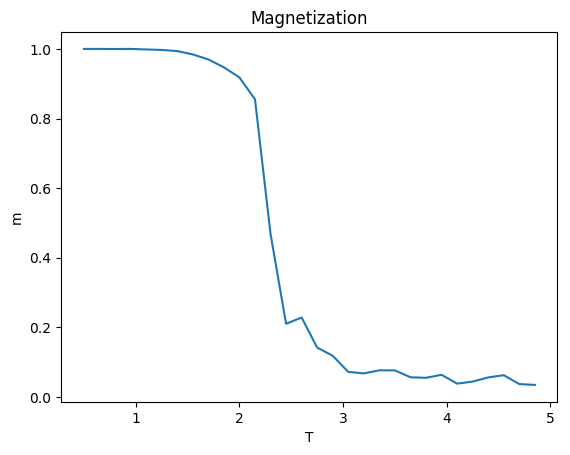
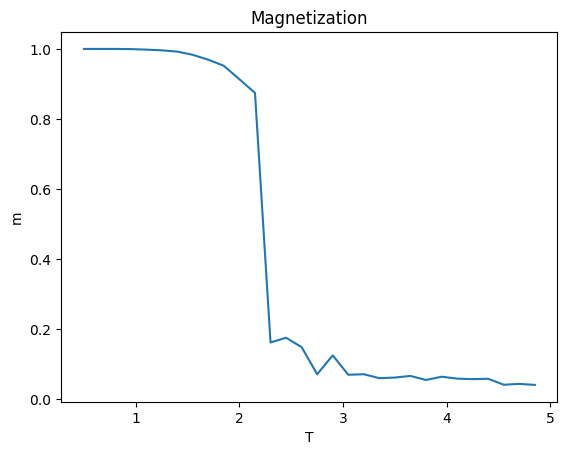
Added specific heat

diff --git a/Ising/Ising.py b/Ising/Ising.py
@@ -208,15 +208,18 @@ Ts = []
 for nt in range(Nt):
 	
 	
+	
+	#These will be averaged out over ntest times...
+	#With independent starting points
 	Eavg = 0
 	Mavg = 0
 	M2avg = 0
-	
-	#Denner her er speshul
 	E2avg = 0
 	
+	
+	
 	#Precalculated exponenstial, for every T, for more efficiency
-	#Der er noget i vejen emd disse, heldigvis, så er det til at fix ftw
+	#Right now i make 17, but there's only 5 i think! Because of 2* faktor, so only even numbers
 	PreCalcExp = [np.exp(-(i-8.0)/T) for i in range(17)]
 	
 	#Fordi noget med at bad initial conditions kan give local minim..
@@ -234,9 +237,24 @@ for nt in range(Nt):
 		#Lige her bør jeg faktisk lave en endnu en loop
 		
 		
-		
+		MEquilibriumCount = 0
 		#100*N = 100*625 = 62500
 		#E2calcavg = 0
+		
+		#Well i can't have division by 0 error, so...
+		Mlasteq = 1
+		
+		#I need to make an average of M*M for <M**2>
+		#And later, I need to make an average of THESE aswell, with 1/ntest faktor
+		#So it will be double average for <M**2>, and probably should do the same for <E**2>?
+		Avgcount = 0
+		
+		MavgMC = 0
+		M2avgMC = 0
+		EavgMC = 0
+		E2avgMC = 0
+		
+		
 		for n in range(150*N):
 			randi = np.random.randint(0,nx)
 			randj = np.random.randint(0,nx)
@@ -256,53 +274,111 @@ for nt in range(Nt):
 				if x <= P:
 					S[randj,randi] *= -1
 					
-			#if n >= 150*N-20:
-			#	Etotalavg = CalcH(S)
+			
+			#Here I count succesive equilibrium states,
+			#It needs to "remember" at least 2 magnetizations, the current and the last
+			#Can be made more advanced, but that's the simplest
+			if n%N == 0:
+			
+				#We only measure M during full Monte Carlo Sweeps
+				Meq = np.abs(np.sum(S))
+				if Mlasteq != 0:
+					if np.abs(Meq/(Mlasteq*100)) < 5:
+						#The last state is within 5% of the current, so we have an Equilibrium count
+						MEquilibriumCount += 1
+						
+					#Reset equilibrium counter
+					#Hvis vi har fx count == 2, men så kommer der en huge spike, så skal count gå tilbage til 0...
+					else:
+						MEquilibriumCount = 0
 				
-			#	E2calcavg = E2calcavg + Etotalavg*Etotalavg
+				if MEquilibriumCount >= 10:
+					#We have reached equilibrium let's say, since the last 10 equilibriums are within 5%
+
+					#For equilibrium counts above 10, we calculate average M2
+					MavgMC += Meq
+					M2avgMC += Meq*Meq
+					
+					Ecalc = CalcH(S)
+					EavgMC += Ecalc
+					E2avgMC += Ecalc*Ecalc
+					
+					
+					#Avgcount used for E and M
+					Avgcount += 1
+					
+				
+				if MEquilibriumCount == 20:
+				
+					#So we have done 10x measurements for M2, E2 etc, and now we're ready to exit this state
+					break
+					
+				else:
+					Mlasteq = Meq
+				
+		#The first, inner average of M**2
+		MavgMC *= (1/Avgcount)
+		M2avgMC *= (1/Avgcount)
+		E2avgMC *= (1/Avgcount)
+		EavgMC *= (1/Avgcount)
+				
+				
 				
 		#E2calcavg *= (1.0/20.0)
+
+		
+
+		#Calculate Energies, jeg venter med at divide med N til sidst, pga E2avg
+		#Etotal = CalcH(S)
+		
+		#Eavg += Etotal
+		
+		#Calculate Eavg from equilibration samples
+		Eavg += EavgMC
+		
+		
+		#E2avg += Etotal*Etotal
+		
+		#Calculate E2avg with the already averaged E2avgMC, to get <E**2>
+		E2avg += E2avgMC
+		
+		
 		#Calculate Magnetization
 		#I want it to be absolute value, and an average, pr site, i think.
 		#I want to to be absolute especially if I'm gonna run the test multiple times and average it.
 		
-		Mtotal = np.abs(np.sum(S))
+		#Mtotal = np.abs(np.sum(S))
 		
+		#Mavg += Mtotal
 		
-		Mavg = Mavg + Mtotal
-		
-
-		#Calculate Energies, jeg venter med at divide med N til sidst, pga E2avg
-		Etotal = CalcH(S)
-		
-		Eavg = Eavg + Etotal
-		
-		E2avg = E2avg + Etotal*Etotal
-		
-		#Inklusiv intra-avg:
-		#E2avg = E2avg + E2calcavg
-
+		Mavg += MavgMC
 		
 		#Used for isothermal susceptibility, skal måske her divide med N**2?
 		#Skal måske også lave den til M*M ligesom Etotal*Etotal...
 		#I (<M2>-<M>**2) så vil <M>**2 have faktor 1/N**2, mens <M2> kun har faktor 1/N
 		#Så det skal nok være faktor 1/N**2 også på M2
 		
-		#M2avg = M2avg + Mtotal*Mtotal
+		#M2avg += Mtotal*Mtotal
 		
-		M2avg = M2avg + np.abs(np.sum(S**2))
+		#Calculate M2avg with the already averaged M2avgMC, to REALLY get a <M**2>
+		
+		M2avg += M2avgMC
+		
+		#M2avg = M2avg + np.abs(np.sum(S**2))
 	
 	
 	
 	
 	E = Eavg/ntest
-	M = Mavg/ntest
-	M2 = M2avg/ntest
 	E2 = E2avg/ntest
 	
+	M = Mavg/ntest
+	M2 = M2avg/ntest
+	
+	
 	#Calculate Isothermal susceptibility
-	#Det er egentlig XT pr site, pga N**2... men det er pr site squared, virker ikke helt rigtigt
-	XT = (1/T)*(M2**2-M**2)/N**2
+	#Det er egentlig XT pr site... men det er pr site squared, virker ikke helt rigtigt
+	XT = (1/T)*(M2-M**2)/N
 	
 	#Calculate specific heat
 	#Kan også prøve at sammenligne med finite differences

diff --git a/README.md b/README.md
@@ -47,6 +47,11 @@ with the external field. The models gives low susceptibility for low T, since th
 too high T means the thermal disturbances will be too strong to give any significant alignment with an external field.
 
 
+![SpecificHeat.png](https://github.com/mintDan/MonteCarlo/blob/master/figs/Specificheat.png)  
+
+The specific heat describes how much the internal energy changes when the temperature changes. We see that the internal energy changes mostly around the critical temperature, which can also be seen from the energy graph.
+Once the magnetization reaches 0, and the energy reaches it's maximum, we basically have random configuration of spins, and increasing T cannot do anything to increase the Energy in this system.
+
 
 ## MC calculate pi
 Compares the amount of points landing inside and outside the circle, which together with the area outside, gives an approximation for pi.
